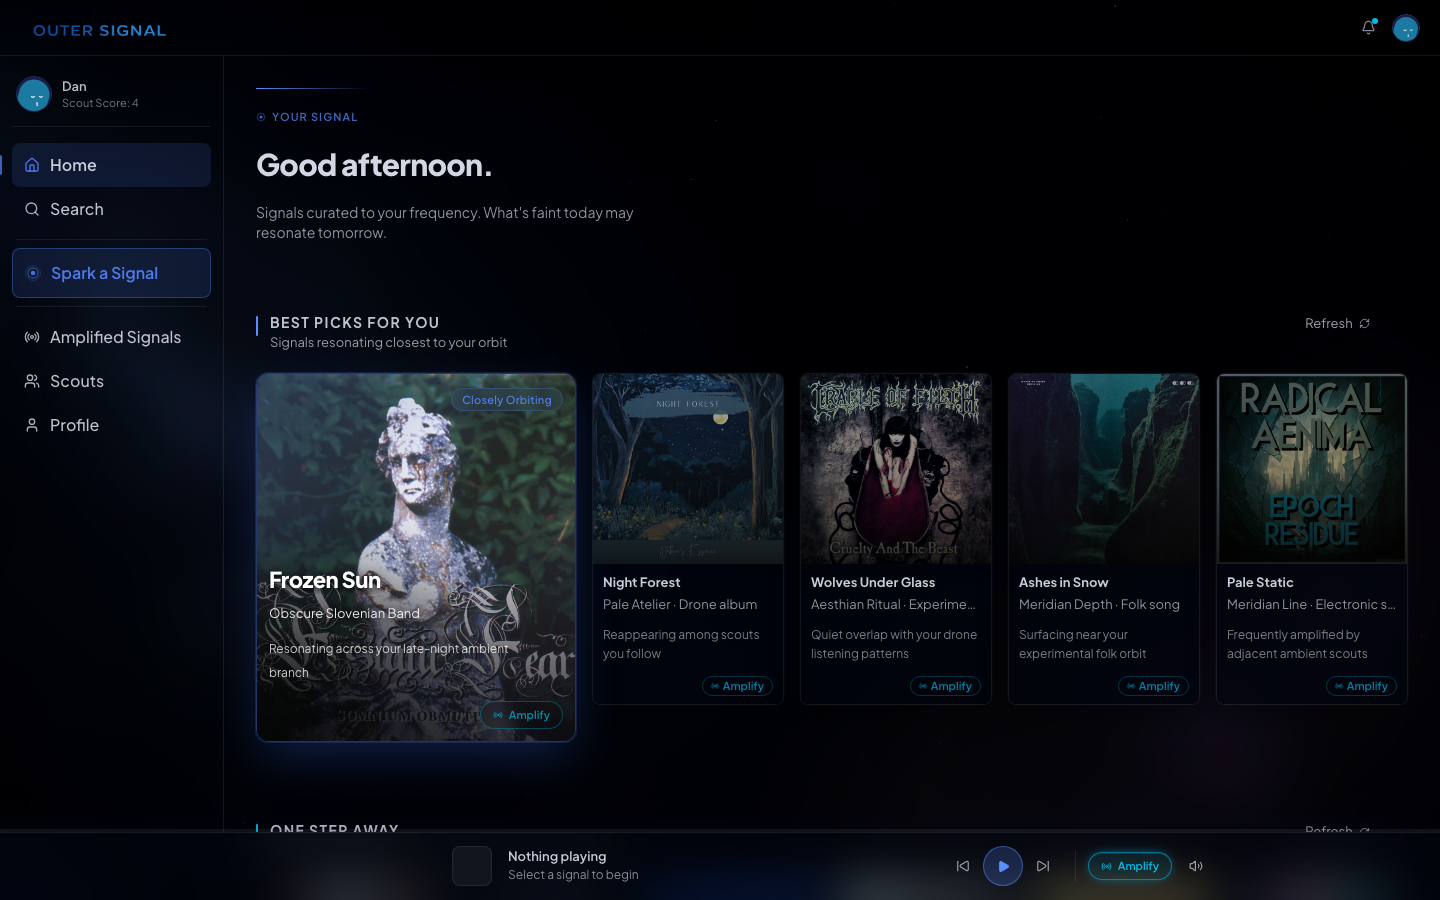
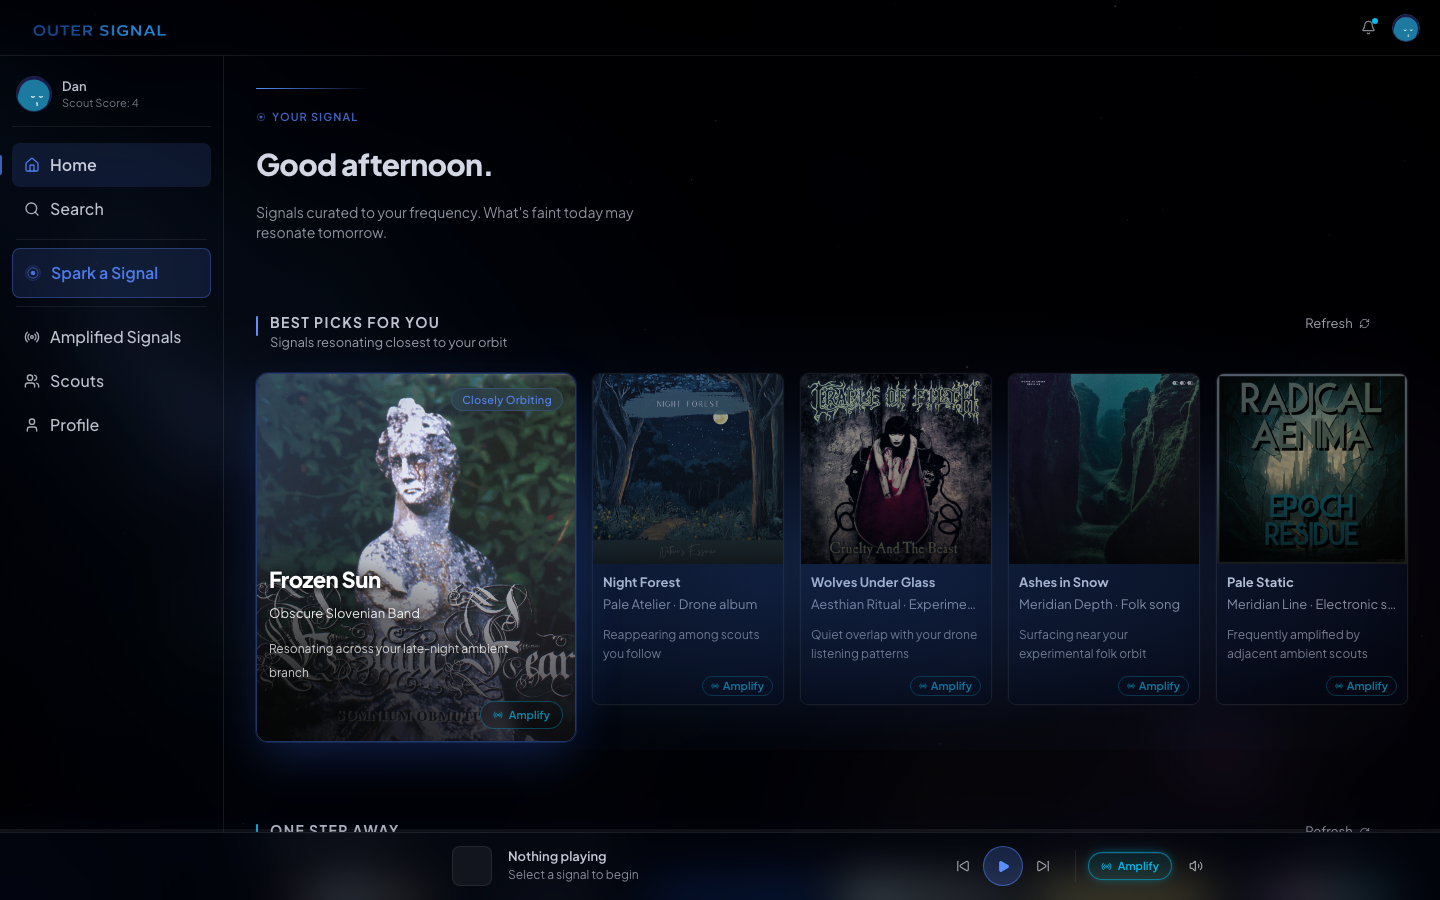
Refines the DEPTH LAYERING to be stronger.

Changed region(s): [[0.375, 0.4978, 0.875, 0.7778]]

diff --git a/src/lib/components/lanes/OriginStoriesLane.svelte b/src/lib/components/lanes/OriginStoriesLane.svelte
@@ -4,11 +4,12 @@
 </script>
 
 <section class="relative pt-6 pb-2">
-	<!-- Dark substrate: deepest pocket — propagation diagrams should feel embedded in atmospheric depth -->
-	<div class="absolute inset-0 pointer-events-none" aria-hidden="true" style="background:radial-gradient(ellipse 100% 115% at 38% 55%,rgba(0,0,0,0.095) 0%,transparent 75%);"></div>
-	<!-- Origin Stories atmosphere: violet-blue memory haze — most cinematic lane -->
-	<div class="absolute pointer-events-none" aria-hidden="true" style="width:960px;height:580px;left:10%;top:-38%;background:radial-gradient(ellipse at center,rgba(120,90,220,0.105) 0%,transparent 65%);filter:blur(130px);"></div>
-	<div class="absolute pointer-events-none" aria-hidden="true" style="width:560px;height:380px;left:-4%;bottom:-22%;background:radial-gradient(ellipse at center,rgba(80,120,255,0.058) 0%,transparent 65%);filter:blur(115px);"></div>
+	<!-- Origin Stories atmospheric anchor (PRIMARY benchmark) — most cinematic lane.
+	     Two layers: outer atmospheric wash spans the widest vertical (70% height) +
+	     inner glow that the propagation diagrams sit inside. The result is the
+	     "memory density" the lane is named for — depth, not just color. -->
+	<div class="absolute inset-0 pointer-events-none" aria-hidden="true" style="background:radial-gradient(ellipse 92% 70% at 50% 55%,rgba(115,75,200,0.20) 0%,rgba(115,75,200,0.11) 40%,rgba(115,75,200,0.04) 65%,transparent 90%);"></div>
+	<div class="absolute inset-0 pointer-events-none" aria-hidden="true" style="background:radial-gradient(ellipse 70% 50% at 50% 58%,rgba(130,90,215,0.18) 0%,rgba(130,90,215,0.09) 45%,transparent 72%);"></div>
 
 	<div class="flex items-start justify-between w-full">
 		<div class="flex items-start gap-3">

diff --git a/src/lib/components/lanes/BreakingOutLane.svelte b/src/lib/components/lanes/BreakingOutLane.svelte
@@ -56,11 +56,11 @@
 </script>
 
 <section class="relative">
-	<!-- Dark substrate: kinetic momentum, slightly sharper environmental definition -->
-	<div class="absolute inset-0 pointer-events-none" aria-hidden="true" style="background:radial-gradient(ellipse 95% 105% at 25% 55%,rgba(0,0,0,0.080) 0%,transparent 75%);"></div>
-	<!-- Breaking Out atmosphere: restrained emerald resonance haze, left-drifting -->
-	<div class="absolute pointer-events-none" aria-hidden="true" style="width:980px;height:480px;left:0%;top:-28%;background:radial-gradient(ellipse at center,rgba(30,190,140,0.090) 0%,transparent 65%);filter:blur(125px);"></div>
-	<div class="absolute pointer-events-none" aria-hidden="true" style="width:460px;height:360px;right:12%;bottom:-20%;background:radial-gradient(ellipse at center,rgba(0,140,120,0.050) 0%,transparent 65%);filter:blur(110px);"></div>
+	<!-- Breaking Out atmospheric anchor (PRIMARY) — kinetic, energized.
+	     Two layers: outer wash + inner glow. Inner glow uses slightly lifted teal for kinetic feel
+	     without crossing into saturated cyberpunk territory. -->
+	<div class="absolute inset-0 pointer-events-none" aria-hidden="true" style="background:radial-gradient(ellipse 90% 62% at 50% 55%,rgba(40,125,105,0.16) 0%,rgba(40,125,105,0.08) 40%,rgba(40,125,105,0.03) 65%,transparent 87%);"></div>
+	<div class="absolute inset-0 pointer-events-none" aria-hidden="true" style="background:radial-gradient(ellipse 68% 48% at 50% 60%,rgba(50,140,115,0.18) 0%,rgba(50,140,115,0.09) 45%,transparent 72%);"></div>
 
 	<div class="flex items-start justify-between w-full">
 		<div class="flex items-start gap-3">

diff --git a/src/lib/components/lanes/ForYouLane.svelte b/src/lib/components/lanes/ForYouLane.svelte
@@ -14,11 +14,11 @@
 </script>
 
 <section class="relative">
-	<!-- Dark substrate: full-section wash with asymmetric center; calms local starfield noise -->
-	<div class="absolute inset-0 pointer-events-none" aria-hidden="true" style="background:radial-gradient(ellipse 90% 110% at 28% 55%,rgba(0,0,0,0.085) 0%,transparent 75%);"></div>
-	<!-- Best Picks atmosphere: faint cool-blue resonance field, left-anchored behind hero -->
-	<div class="absolute pointer-events-none" aria-hidden="true" style="width:860px;height:660px;left:-4%;top:-25%;background:radial-gradient(ellipse at center,rgba(56,118,255,0.100) 0%,transparent 65%);filter:blur(120px);"></div>
-	<div class="absolute pointer-events-none" aria-hidden="true" style="width:560px;height:420px;right:2%;bottom:-18%;background:radial-gradient(ellipse at center,rgba(120,180,255,0.055) 0%,transparent 65%);filter:blur(105px);"></div>
+	<!-- Best Picks atmospheric anchor (PRIMARY) — emotional home orbit.
+	     Two layers: outer atmospheric wash (wider, distant) + inner glow (behind cards).
+	     The combination creates layered luminosity — depth, not single-color tint. -->
+	<div class="absolute inset-0 pointer-events-none" aria-hidden="true" style="background:radial-gradient(ellipse 90% 65% at 50% 55%,rgba(48,92,178,0.18) 0%,rgba(48,92,178,0.10) 40%,rgba(48,92,178,0.04) 65%,transparent 88%);"></div>
+	<div class="absolute inset-0 pointer-events-none" aria-hidden="true" style="background:radial-gradient(ellipse 70% 50% at 50% 60%,rgba(60,108,195,0.16) 0%,rgba(60,108,195,0.07) 45%,transparent 75%);"></div>
 
 	<div class="flex items-start justify-between w-full">
 		<div class="flex items-start gap-3">

diff --git a/src/lib/components/lanes/HumanSignalsLane.svelte b/src/lib/components/lanes/HumanSignalsLane.svelte
@@ -4,11 +4,9 @@
 </script>
 
 <section class="relative pt-6 pb-2">
-	<!-- Dark substrate: comfortable reading pocket, less cold than surrounding lanes -->
-	<div class="absolute inset-0 pointer-events-none" aria-hidden="true" style="background:radial-gradient(ellipse 100% 110% at 24% 55%,rgba(0,0,0,0.080) 0%,transparent 75%);"></div>
-	<!-- Human Signals atmosphere: warm-cool mixed field, warmth nearly imperceptible -->
-	<div class="absolute pointer-events-none" aria-hidden="true" style="width:880px;height:580px;left:-6%;top:-32%;background:radial-gradient(ellipse at center,rgba(100,160,255,0.062) 0%,transparent 65%);filter:blur(120px);"></div>
-	<div class="absolute pointer-events-none" aria-hidden="true" style="width:360px;height:280px;right:6%;top:20%;background:radial-gradient(ellipse at center,rgba(255,180,120,0.030) 0%,transparent 65%);filter:blur(105px);"></div>
+	<!-- Human Signals (SECONDARY) — slightly warmer blue, "inhabited" reading zone.
+	     R-channel lifted from 95 to 110 for a subtle warmer cast (not orange — just less cold). -->
+	<div class="absolute inset-0 pointer-events-none" aria-hidden="true" style="background:radial-gradient(ellipse 85% 55% at 50% 55%,rgba(110,135,180,0.16) 0%,rgba(110,135,180,0.08) 40%,rgba(110,135,180,0.03) 65%,transparent 85%);"></div>
 
 	<div class="flex items-start justify-between w-full">
 		<div class="flex items-start gap-3">

diff --git a/src/lib/components/lanes/OneStepAwayLane.svelte b/src/lib/components/lanes/OneStepAwayLane.svelte
@@ -19,11 +19,9 @@
 </script>
 
 <section class="relative">
-	<!-- Dark substrate: broader spread for OSA's wider atmospheric field -->
-	<div class="absolute inset-0 pointer-events-none" aria-hidden="true" style="background:radial-gradient(ellipse 110% 100% at 22% 60%,rgba(0,0,0,0.085) 0%,transparent 80%);"></div>
-	<!-- One Step Away atmosphere: cyan-blue drift haze spread across the row -->
-	<div class="absolute pointer-events-none" aria-hidden="true" style="width:1060px;height:480px;left:4%;top:-20%;background:radial-gradient(ellipse at center,rgba(40,180,255,0.085) 0%,transparent 65%);filter:blur(130px);"></div>
-	<div class="absolute pointer-events-none" aria-hidden="true" style="width:480px;height:360px;right:6%;bottom:-22%;background:radial-gradient(ellipse at center,rgba(90,220,255,0.055) 0%,transparent 65%);filter:blur(110px);"></div>
+	<!-- One Step Away (TERTIARY) — quiet, restrained. Pulled down to create scrolling rhythm
+	     between the loud primary lanes (BP, BO, OS) and the dense card row here. -->
+	<div class="absolute inset-0 pointer-events-none" aria-hidden="true" style="background:radial-gradient(ellipse 85% 50% at 50% 55%,rgba(40,130,175,0.13) 0%,rgba(40,130,175,0.06) 40%,rgba(40,130,175,0.02) 65%,transparent 85%);"></div>
 
 	<div class="flex items-start justify-between w-full">
 		<div class="flex items-start gap-3">

diff --git a/src/lib/components/lanes/DeepUndergroundLane.svelte b/src/lib/components/lanes/DeepUndergroundLane.svelte
@@ -14,10 +14,9 @@
 </script>
 
 <section class="relative">
-	<!-- Dark substrate: lightest of all lanes — DU should remain darkest/sparsest -->
-	<div class="absolute inset-0 pointer-events-none" aria-hidden="true" style="background:radial-gradient(ellipse 95% 105% at 35% 60%,rgba(0,0,0,0.052) 0%,transparent 75%);"></div>
-	<!-- Deep Underground atmosphere: minimal cold void light, nearly imperceptible -->
-	<div class="absolute pointer-events-none" aria-hidden="true" style="width:680px;height:380px;left:22%;top:-45%;background:radial-gradient(ellipse at center,rgba(40,70,120,0.046) 0%,transparent 65%);filter:blur(140px);"></div>
+	<!-- Deep Underground (TERTIARY) — intentionally faint. Tighter vertical, lowest opacity.
+	     Pulled even quieter than OSA so the section feels like a true atmospheric trough. -->
+	<div class="absolute inset-0 pointer-events-none" aria-hidden="true" style="background:radial-gradient(ellipse 80% 45% at 50% 55%,rgba(35,55,95,0.08) 0%,rgba(35,55,95,0.04) 45%,transparent 85%);"></div>
 
 	<div class="flex items-start justify-between w-full">
 		<div class="flex items-start gap-3">

diff --git a/src/lib/components/lanes/OutsideTheBubbleLane.svelte b/src/lib/components/lanes/OutsideTheBubbleLane.svelte
@@ -7,10 +7,9 @@
 </script>
 
 <section class="relative pt-6 pb-2">
-	<!-- Dark substrate: sparse single-source pocket, right-anchored, isolated -->
-	<div class="absolute inset-0 pointer-events-none" aria-hidden="true" style="background:radial-gradient(ellipse 90% 105% at 75% 50%,rgba(0,0,0,0.070) 0%,transparent 75%);"></div>
-	<!-- Outside the Bubble atmosphere: cold distant vacuum light, sparse and isolated -->
-	<div class="absolute pointer-events-none" aria-hidden="true" style="width:680px;height:440px;right:-2%;top:-38%;background:radial-gradient(ellipse at center,rgba(90,130,170,0.058) 0%,transparent 65%);filter:blur(140px);"></div>
+	<!-- Outside the Bubble (SECONDARY) — present but calmer. Tighter horizontal extent
+	     (82% vs 85%) reinforces the lane's "isolated cold pocket" identity. -->
+	<div class="absolute inset-0 pointer-events-none" aria-hidden="true" style="background:radial-gradient(ellipse 82% 52% at 50% 55%,rgba(70,100,145,0.14) 0%,rgba(70,100,145,0.07) 40%,rgba(70,100,145,0.025) 65%,transparent 85%);"></div>
 
 	<div class="flex items-start justify-between w-full">
 		<div class="flex items-start gap-3">